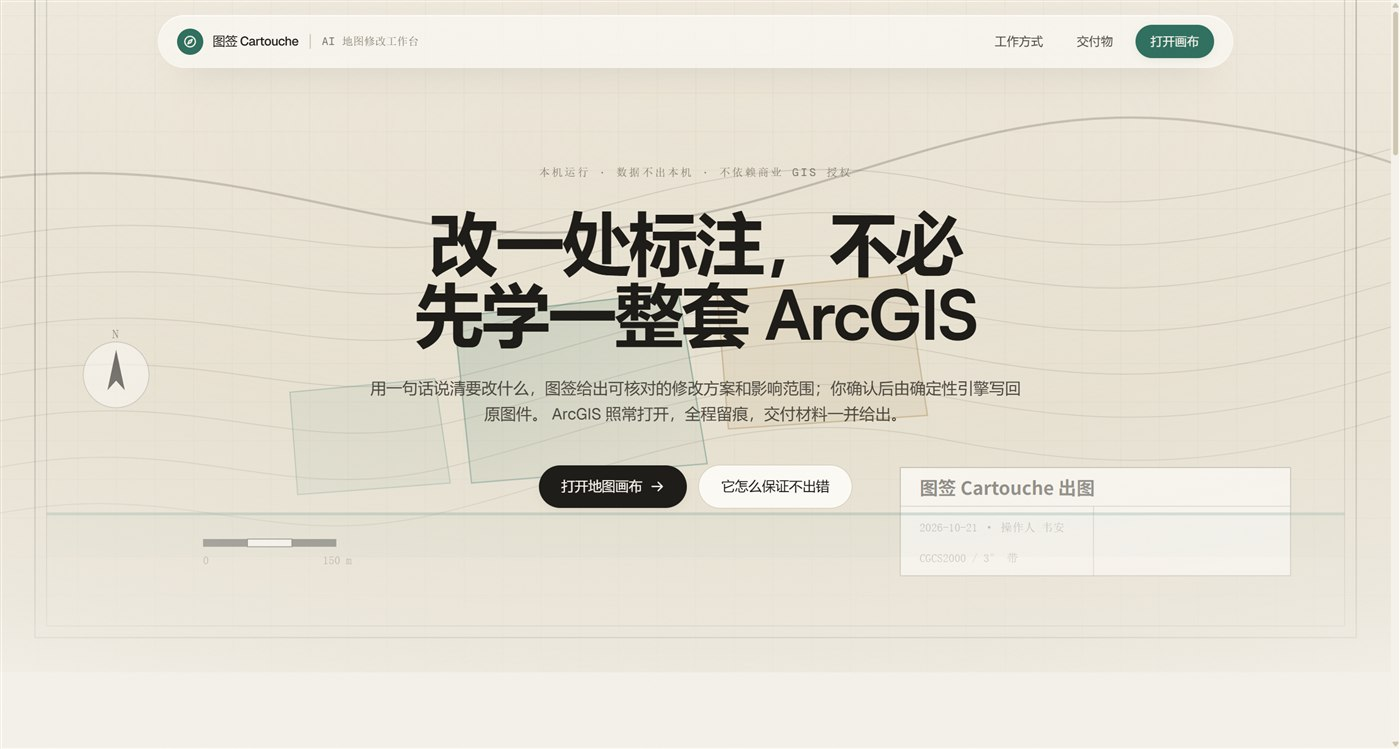
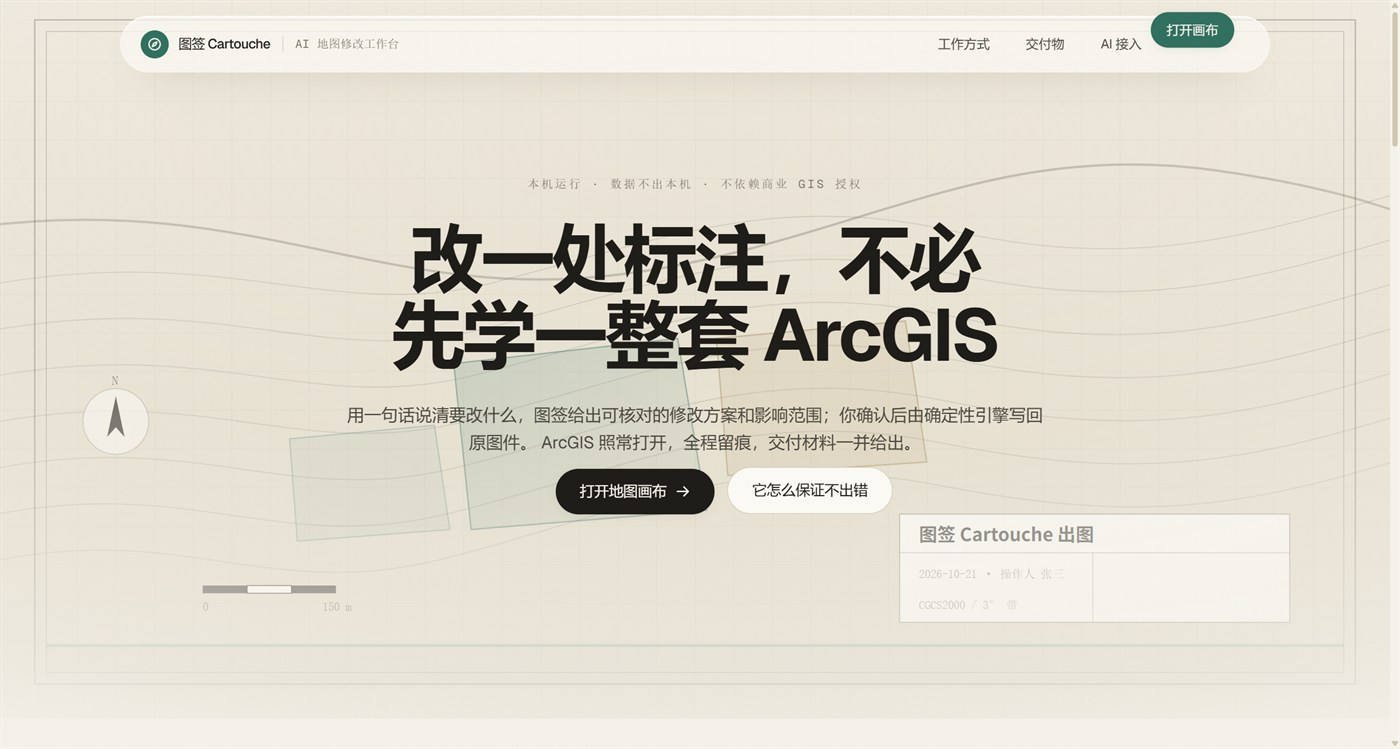
chore(repo): 演示人名统一改成通用占位
营销动效与测试夹具里用的演示人名不是通用占位符，和真实应用演示
项目里的用名也不一致。统一成同一个通用占位名，首页截图重出。

diff --git a/web/app/motion/CartouchePreview.tsx b/web/app/motion/CartouchePreview.tsx
@@ -77,7 +77,7 @@ export function CartouchePreview() {
           图签 Cartouche 出图
         </text>
         <text x="952" y="614" fontFamily="ui-monospace, monospace" fontSize="12" fill="#1c1a16" fillOpacity="0.42">
-          2026-10-21 · 操作人 韦安
+          2026-10-21 · 操作人 张三
         </text>
         <text x="952" y="646" fontFamily="ui-monospace, monospace" fontSize="12" fill="#1c1a16" fillOpacity="0.42">
           CGCS2000 / 3° 带

diff --git a/web/app/motion/Deliverables.tsx b/web/app/motion/Deliverables.tsx
@@ -62,7 +62,7 @@ function SheetPreview() {
         图签 Cartouche 出图
       </text>
       <text x="204" y="116" fontSize="7" fontFamily="ui-monospace, monospace" fill="#1c1a16" fillOpacity="0.45">
-        2026-10-21 · 韦安
+        2026-10-21 · 张三
       </text>
       <rect x="24" y="116" width="26" height="5" fill="#1c1a16" fillOpacity="0.7" />
       <rect x="50" y="116" width="26" height="5" fill="none" stroke="#1c1a16" strokeOpacity="0.7" />
